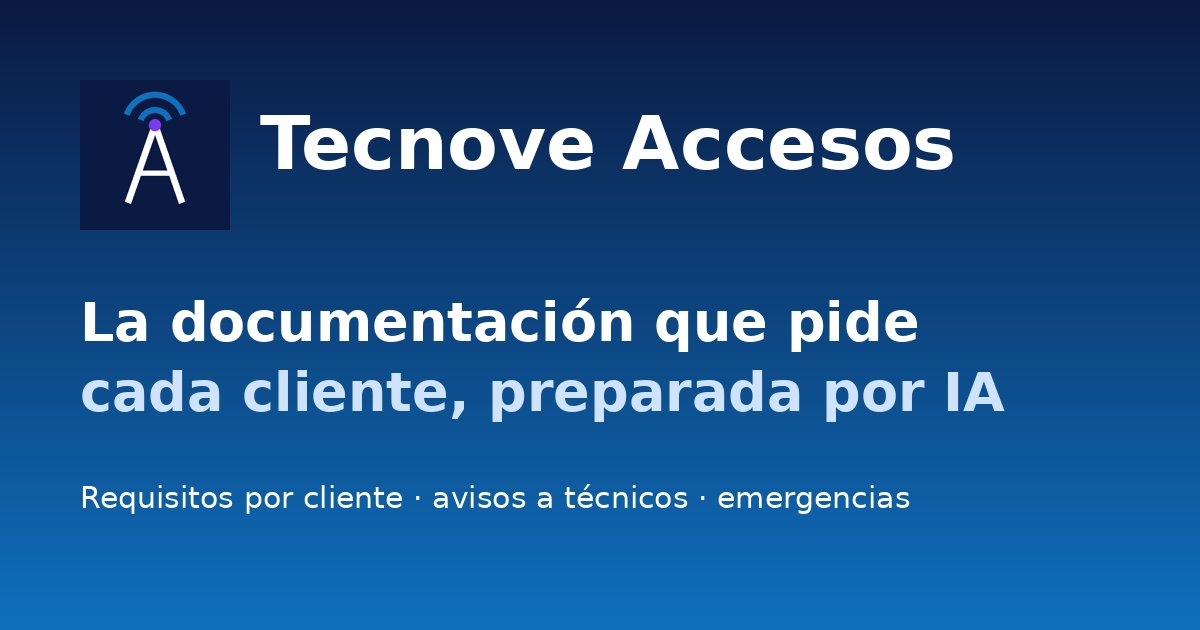
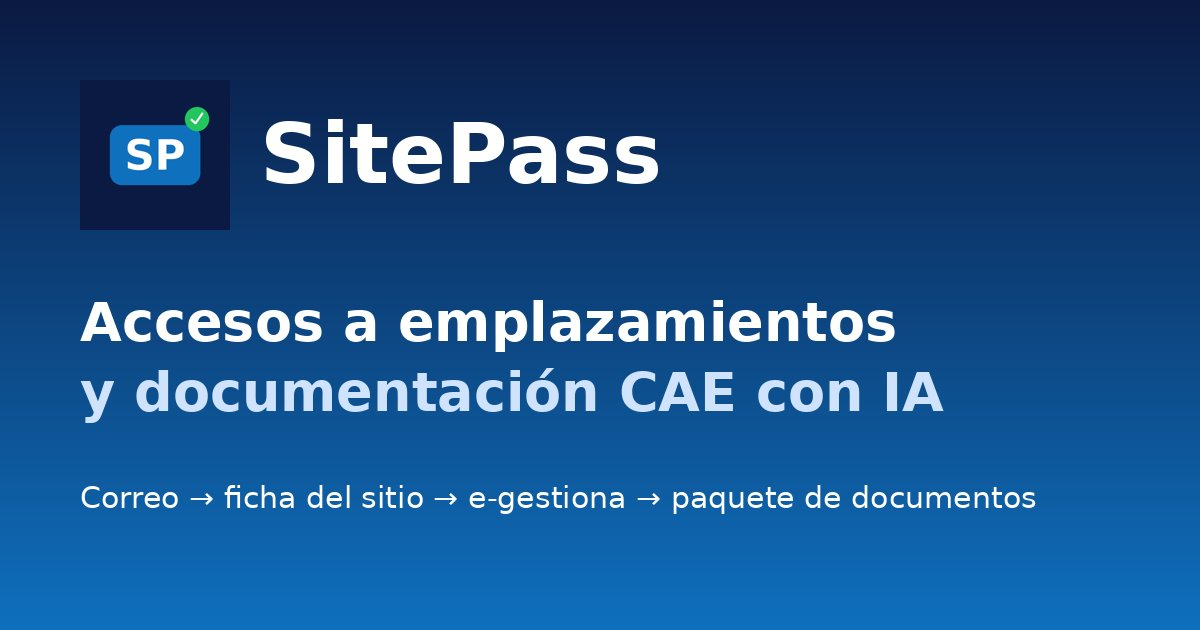
Renombrar a SitePass

diff --git a/tecnove/app.js b/tecnove/app.js
@@ -1,5 +1,5 @@
 'use strict';
-/* Tecnove Accesos — demo (localStorage). Tecnove es la contrata; cada cliente pide su documentación. */
+/* SitePass — demo (localStorage). Tecnove es la contrata; cada cliente pide su documentación. */
 const KEY='tecnove_accesos_v1';
 const $=s=>document.querySelector(s);
 const esc=s=>String(s??'').replace(/[&<>"']/g,c=>({'&':'&amp;','<':'&lt;','>':'&gt;','"':'&quot;',"'":'&#39;'}[c]));
@@ -243,7 +243,7 @@ function render(){
  const navHtml=cls=>`<nav class="${cls}">${nav.map(([hh,i,t,c])=>`<a href="${hh}" class="${on(hh)?'on':''}"><span class="ic">${i}</span>${t}${c&&cn[c]?`<span class="cnt">${cn[c]}</span>`:''}</a>`).join('')}</nav>`;
  const who=S.user.role==='gestor'?'Gestión PRL':esc(tra(S.user.tid).nombre);
  let body='';try{body=view(r)}catch(e){console.error(e);body='<div class="card">Error: '+esc(e.message)+'</div>'}
- $('#app').innerHTML=`<header class="top"><div class="logo"><span class="sh">📡</span>Tecnove Accesos</div><div class="who">${who}</div>${S.user.role==='gestor'?'<button class="gear" onclick="go(\'#/ajustes\')" aria-label="Ajustes">⚙</button>':''}<button class="out" onclick="A.logout()">Salir</button></header><div class="layout">${navHtml('side')}<main>${body}</main></div>${navHtml('bottom')}${S.user.role==='gestor'&&!r.startsWith('#/ia')?'<button class="fab" onclick="go(\'#/ia\')" aria-label="Asistente IA">🤖</button>':''}`;
+ $('#app').innerHTML=`<header class="top"><div class="logo"><span class="sh">📡</span>SitePass</div><div class="who">${who}</div>${S.user.role==='gestor'?'<button class="gear" onclick="go(\'#/ajustes\')" aria-label="Ajustes">⚙</button>':''}<button class="out" onclick="A.logout()">Salir</button></header><div class="layout">${navHtml('side')}<main>${body}</main></div>${navHtml('bottom')}${S.user.role==='gestor'&&!r.startsWith('#/ia')?'<button class="fab" onclick="go(\'#/ia\')" aria-label="Asistente IA">🤖</button>':''}`;
  window.scrollTo(0,0);if(r.startsWith('#/ia'))setTimeout(()=>{const c=$('.chat');if(c)c.scrollTop=1e6},0);
 }
 window.addEventListener('hashchange',render);
@@ -251,7 +251,7 @@ function view(r){const p=r.slice(2).split('/').map(decodeURIComponent);
  switch(p[0]){case'entrada':return vEntrada();case'panel':return vPanel();case'trabajos':return vTrabajos(p[1]);case'j':return vTrabajo(p[1]);case'nuevo':return vNuevo(p[1]);case'emergencia':return vEmergencia(p[1]);case'clientes':return vClientes();case'c':return vCliente(p[1]);case'equipo':return vEquipo(p[1]);case'o':return vOwner(p[1]);case'ajustes':return vAjustes();case'ia':return vIA();case'actividad':return vActividad();
   case't':return({inicio:vTInicio,docs:vTDocs,mensajes:vTMensajes,carnet:vTCarnet,j:()=>vTTrabajo(p[2])}[p[1]]||vTInicio)()}
  return'<div class="card">Página no encontrada</div>'}
-function loginView(){return`<div class="login" style="background:linear-gradient(160deg,#0b1a42,#0f70be 60%,#7c3aed)"><div class="box"><div class="logo" style="color:var(--p);font-size:24px"><span class="sh" style="background:var(--p);color:#fff">📡</span>Tecnove Accesos</div>
+function loginView(){return`<div class="login" style="background:linear-gradient(160deg,#0b1a42,#0f70be 60%,#7c3aed)"><div class="box"><div class="logo" style="color:var(--p);font-size:24px"><span class="sh" style="background:var(--p);color:#fff">📡</span>SitePass</div>
  <p class="mut" style="margin:8px 0 4px">Llega el correo del jefe de proyecto: la IA saca emplazamiento, trabajadores, riesgos y fechas, te prepara la solicitud CAE de e-gestiona y, cuando el cliente pide los papeles, los prepara. Cada cliente pide su documentación para dejar entrar a los técnicos. La IA sabe qué pide cada uno, prepara el paquete, avisa a cada técnico de lo que le falta y en una emergencia te dice quién puede ir ya.</p>
  <p style="font-weight:700;margin:16px 0 0">Entrar como:</p>
  <button class="role" onclick="A.login('gestor')"><span class="ri">👩💼</span><span><b>Gestión PRL / documentación</b><br><span class="mut">Clientes, requisitos, paquetes y emergencias</span></span></button>

diff --git a/tecnove/index.html b/tecnove/index.html
@@ -4,9 +4,9 @@
 <meta charset="utf-8">
 <meta name="viewport" content="width=device-width,initial-scale=1,viewport-fit=cover">
 <meta name="robots" content="noindex,nofollow">
-<title>Tecnove Accesos · Documentación CAE para clientes con IA</title>
+<title>SitePass · Documentación CAE y accesos a emplazamientos con IA</title>
 <meta name="description" content="Demo para Tecnove Telecom: la IA prepara la documentación que pide cada cliente para acceder, avisa a los técnicos de lo que falta y resuelve emergencias.">
-<meta property="og:title" content="Tecnove Accesos · Documentación de acceso a clientes con IA">
+<meta property="og:title" content="SitePass · Documentación de acceso a clientes con IA">
 <meta property="og:description" content="Cada cliente pide sus papeles: la IA lo prepara, avisa a los técnicos y dice quién puede ir ya a una emergencia. Demo.">
 <meta property="og:image" content="https://junior643153338-a11y.github.io/-yjv-electricidad/tecnove/og.jpg">
 <meta property="og:type" content="website">
@@ -22,6 +22,6 @@
 <div id="toasts"></div>
 <script src="qrcode.js"></script>
 <script src="pdf.min.js"></script>
-<script src="app.js?v=2"></script>
+<script src="app.js?v=3"></script>
 </body>
 </html>
